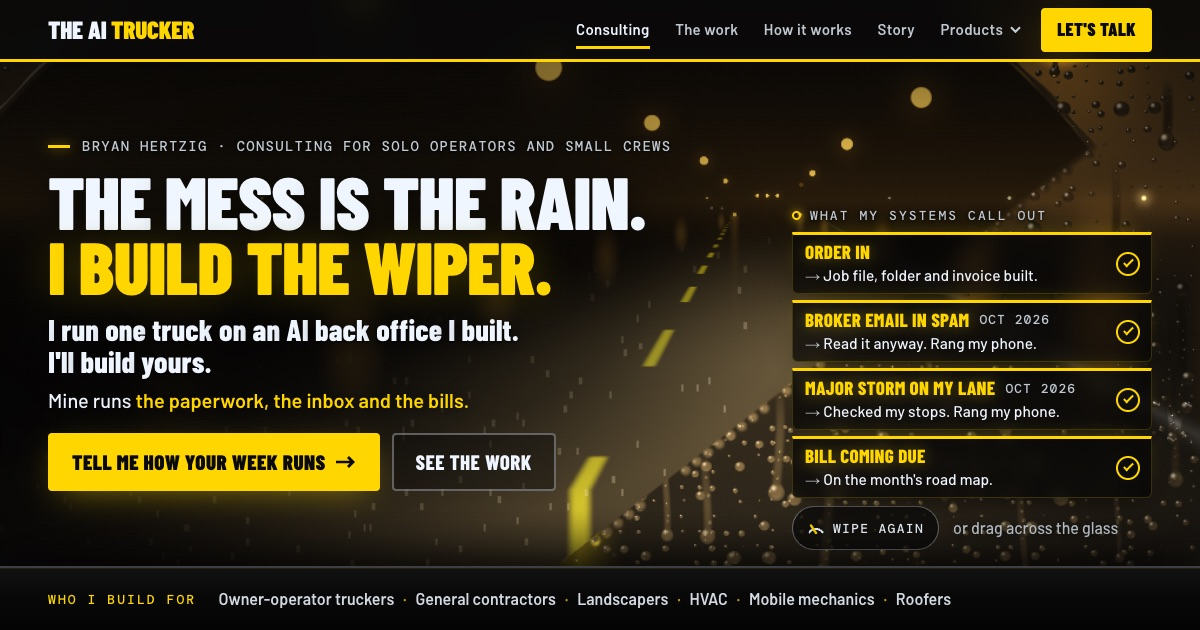
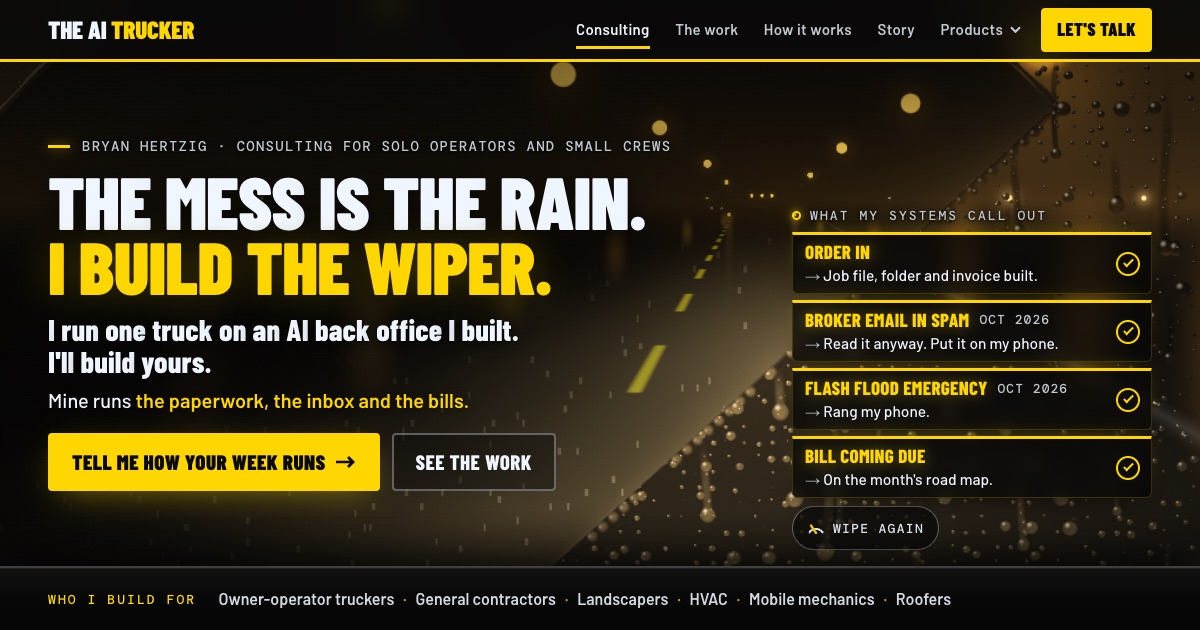
Homepage claims match the record; draft chips off for launch (card #476)
His yes on 11-06, checked against the record first:
- Hero: the spam catch reads "Read it anyway. Put it on my phone." The mail
  desk posted it quietly on Oct 20; it did not ring.
- Hero: "Major storm on my lane" becomes "Flash flood emergency, Oct 2026,
  Rang my phone." Every storm-alarm ring since Oct 31 was a flash flood
  emergency, and none was on his lane.
- The mail-desk offer line: it rings for payments and flags an important
  email that lands in spam.
- Log 04 is dated Oct 31, 2026, the storm alarm's live day. Log 05 is dated
  Oct 20, 2026.
- The intake line and the receipt are confirmed, and their chips are off.
- Off until he sends them: the rig art, the story link and the photo box.
- Products: the empty shelf slot goes.
- og.jpg is re-rendered from a fenced copy, with the new callouts.
- The privacy page says Updated November 6, 2026, the push day.

diff --git a/index.html b/index.html
@@ -519,8 +519,8 @@ html:not(.js) :is(.chip-lbl,.chips,.picks,.copy){display:none}
 <p class="hud-head" aria-hidden="true"><i></i>What my systems call out</p>
 <ol aria-label="What my systems call out">
 <li><a class="hud-row" href="#log-02"><span class="ev">Order in</span><span class="out">Job file, folder and invoice built.</span><span class="go">Log 02 &darr;</span><i class="tick" aria-hidden="true"></i></a></li>
-<li><a class="hud-row" href="#log-05"><span class="ev">Broker email in spam <span class="when">Oct 2026</span></span><span class="out">Read it anyway. Rang my phone.</span><span class="go">Log 05 &darr;</span><i class="tick" aria-hidden="true"></i></a></li>
-<li><a class="hud-row" href="#log-04"><span class="ev">Major storm on my lane <span class="when">Oct 2026</span></span><span class="out">Checked my stops. Rang my phone.</span><span class="go">Log 04 &darr;</span><i class="tick" aria-hidden="true"></i></a></li>
+<li><a class="hud-row" href="#log-05"><span class="ev">Broker email in spam <span class="when">Oct 2026</span></span><span class="out">Read it anyway. Put it on my phone.</span><span class="go">Log 05 &darr;</span><i class="tick" aria-hidden="true"></i></a></li>
+<li><a class="hud-row" href="#log-04"><span class="ev">Flash flood emergency <span class="when">Oct 2026</span></span><span class="out">Rang my phone.</span><span class="go">Log 04 &darr;</span><i class="tick" aria-hidden="true"></i></a></li>
 <li><a class="hud-row" href="#build"><span class="ev">Bill coming due</span><span class="out">On the month's road map.</span><span class="go">Stop 1 &darr;</span><i class="tick" aria-hidden="true"></i></a></li>
 </ol>
 <a class="hud-more" href="#work">See the log &darr;</a>
@@ -558,7 +558,7 @@ html:not(.js) :is(.chip-lbl,.chips,.picks,.copy){display:none}
 <p class="o-n" aria-hidden="true">01</p>
 <div>
 <h3>Paperwork that does itself</h3>
-<p>It comes in by email or a photo. The job file, the folder and the invoice get built. <span class="cf">[confirm: intake by email or a photo]</span></p>
+<p>It comes in by email or a photo. The job file, the folder and the invoice get built.</p>
 <p class="proof"><b>On my rig:</b> it reads the broker's rate con, logs the load, makes the folder, draws the invoice and drafts the email. Nothing sends on its own.</p>
 <a class="olink" href="#log-02">Log 02 &darr;</a>
 </div>
@@ -567,7 +567,7 @@ html:not(.js) :is(.chip-lbl,.chips,.picks,.copy){display:none}
 <p class="o-n" aria-hidden="true">02</p>
 <div>
 <h3>An inbox that never misses money</h3>
-<p>It reads the mail and rings your phone when a customer pays, or when an important email lands in spam.</p>
+<p>It reads the mail and rings your phone when a customer pays, and flags an important email that lands in spam.</p>
 <p class="proof"><b>On my rig:</b> the mail desk. What it caught is on the log.</p>
 <a class="olink" href="#log-05">Log 05 &darr;</a>
 </div>
@@ -625,7 +625,7 @@ html:not(.js) :is(.chip-lbl,.chips,.picks,.copy){display:none}
 <div class="log" id="log">
 <div class="log-head">
 <p class="log-t">The log <span>MAR–NOV 2026</span></p>
-<p class="log-f"><span>Log of <b>Bryan Hertzig</b></span><span>Unit: <b>one pickup + gooseneck</b></span><span class="cf">[art: his rig, cut from his Gemini picture]</span></p>
+<p class="log-f"><span>Log of <b>Bryan Hertzig</b></span><span>Unit: <b>one pickup + gooseneck</b></span></p>
 </div>
 <div class="lg" role="img" aria-label="Log grid, March to November 2026. The entries are listed below.">
 <div class="lg-mo"><span>Mar</span><span>Apr</span><span>May</span><span>Jun</span><span>Jul</span><span>Aug</span><span>Sep</span><span>Oct</span><span>Nov</span></div>
@@ -658,7 +658,6 @@ html:not(.js) :is(.chip-lbl,.chips,.picks,.copy){display:none}
 <p class="lc-fig"><span class="was">30–60 →</span> 2–3</p>
 <p class="lc-sub">Minutes of paperwork per load</p>
 <p class="lc-body">Thirty to sixty minutes. That's what my build notes say the paperwork on one load used to take. On March 30, 2026, they put it at two to three.</p>
-<span class="cf">[Bryan's OK to reprint this receipt]</span>
 </li>
 <li class="lcard" id="log-03">
 <p class="lc-meta"><span class="lc-no">03</span><time datetime="2026-04-03">2026</time><span class="lane">Client</span></p>
@@ -667,18 +666,16 @@ html:not(.js) :is(.chip-lbl,.chips,.picks,.copy){display:none}
 <p class="lc-body">A jobsite receipts app for a contractor friend, no server behind it. By the next day two contractors were using it.</p>
 </li>
 <li class="lcard" id="log-04">
-<p class="lc-meta"><span class="lc-no">04</span><time datetime="2026-10">Oct 2026</time><span class="lane">Live</span></p>
+<p class="lc-meta"><span class="lc-no">04</span><time datetime="2026-10-31">Oct 31, 2026</time><span class="lane">Live</span></p>
 <p class="lc-fig">Storm</p>
-<p class="lc-sub">The storm alarm <span class="cf">[confirm: date]</span></p>
+<p class="lc-sub">The storm alarm</p>
 <p class="lc-body">It checks every National Weather Service alert against my upcoming stops, and rings when a major storm sits on my lane.</p>
-<span class="cf">[confirm: wording]</span>
 </li>
 <li class="lcard" id="log-05">
-<p class="lc-meta"><span class="lc-no">05</span><time datetime="2026-10">Oct 2026</time><span class="lane">Live</span></p>
+<p class="lc-meta"><span class="lc-no">05</span><time datetime="2026-10-20">Oct 20, 2026</time><span class="lane">Live</span></p>
 <p class="lc-fig">Spam</p>
-<p class="lc-sub">The mail desk <span class="cf">[confirm: date]</span></p>
-<p class="lc-body">Gmail put a broker's accounting email in Spam. My mail desk read it anyway and rang my phone.</p>
-<span class="cf">[confirm: incident]</span>
+<p class="lc-sub">The mail desk</p>
+<p class="lc-body">Gmail put a broker's accounting email in Spam. My mail desk read it anyway and put it on my phone.</p>
 </li>
 <li class="lcard lnext" id="log-06">
 <p class="lc-meta"><span class="lc-no">06</span><span>Next</span><span class="cf">[YOUR BUSINESS]</span></p>
@@ -733,9 +730,7 @@ html:not(.js) :is(.chip-lbl,.chips,.picks,.copy){display:none}
 <blockquote class="q2"><p>"Not an AI for truckers: an operating system for anyone who runs a trade alone. Trucking was the proving ground because it's where I live."</p></blockquote>
 <p class="signoff">One truck. One dog. One shot.</p>
 <p class="sig"><b>Bryan Hertzig</b>· BMH Solutions LLC</p>
-<span class="cf">[link: the full story on LinkedIn or X · his pick]</span>
 </div>
-<figure class="photo-ph" aria-label="Photo placeholder"><figcaption class="cf">[photo: Bryan at the truck — his pick]</figcaption></figure>
 </div>
 </div>
 </section>

diff --git a/products.html b/products.html
@@ -422,7 +422,6 @@ html:not(.js) .dd:hover .dd-menu,html:not(.js) .dd:focus-within .dd-menu{display
 <h2 class="shelf-h" id="shelf-h">More from the shop when it's road-tested.</h2>
 <ul class="slots">
 <li class="slot live"><span class="slot-n">Load<span class="y">Calc</span></span> <span class="slot-d">Is this load worth it?</span><a class="text-link" href="loadcalc.html">Open<span class="sr"> LoadCalc</span> <span aria-hidden="true">&rarr;</span></a></li>
-<li class="slot empty"><span class="chip-ph">[shelf: other products · Bryan's call]</span></li>
 </ul>
 </aside>
 </div>

diff --git a/aitrucker_privacy.html b/aitrucker_privacy.html
@@ -34,7 +34,7 @@
 </div>
 <div class="content">
   <h1>Privacy Policy</h1>
-  <div class="date">Effective Date: March 2026 · Updated November 5, 2026</div>
+  <div class="date">Effective Date: March 2026 · Updated November 6, 2026</div>
 
   <h2>1. Introduction</h2>
   <p>The AI Trucker ("we," "us," or "our") is a product of BMH Solutions LLC. We operate the LoadCalc application and related services at theaitrucker.io ("Service"). This Privacy Policy explains how we collect, use, and protect your information.</p>
